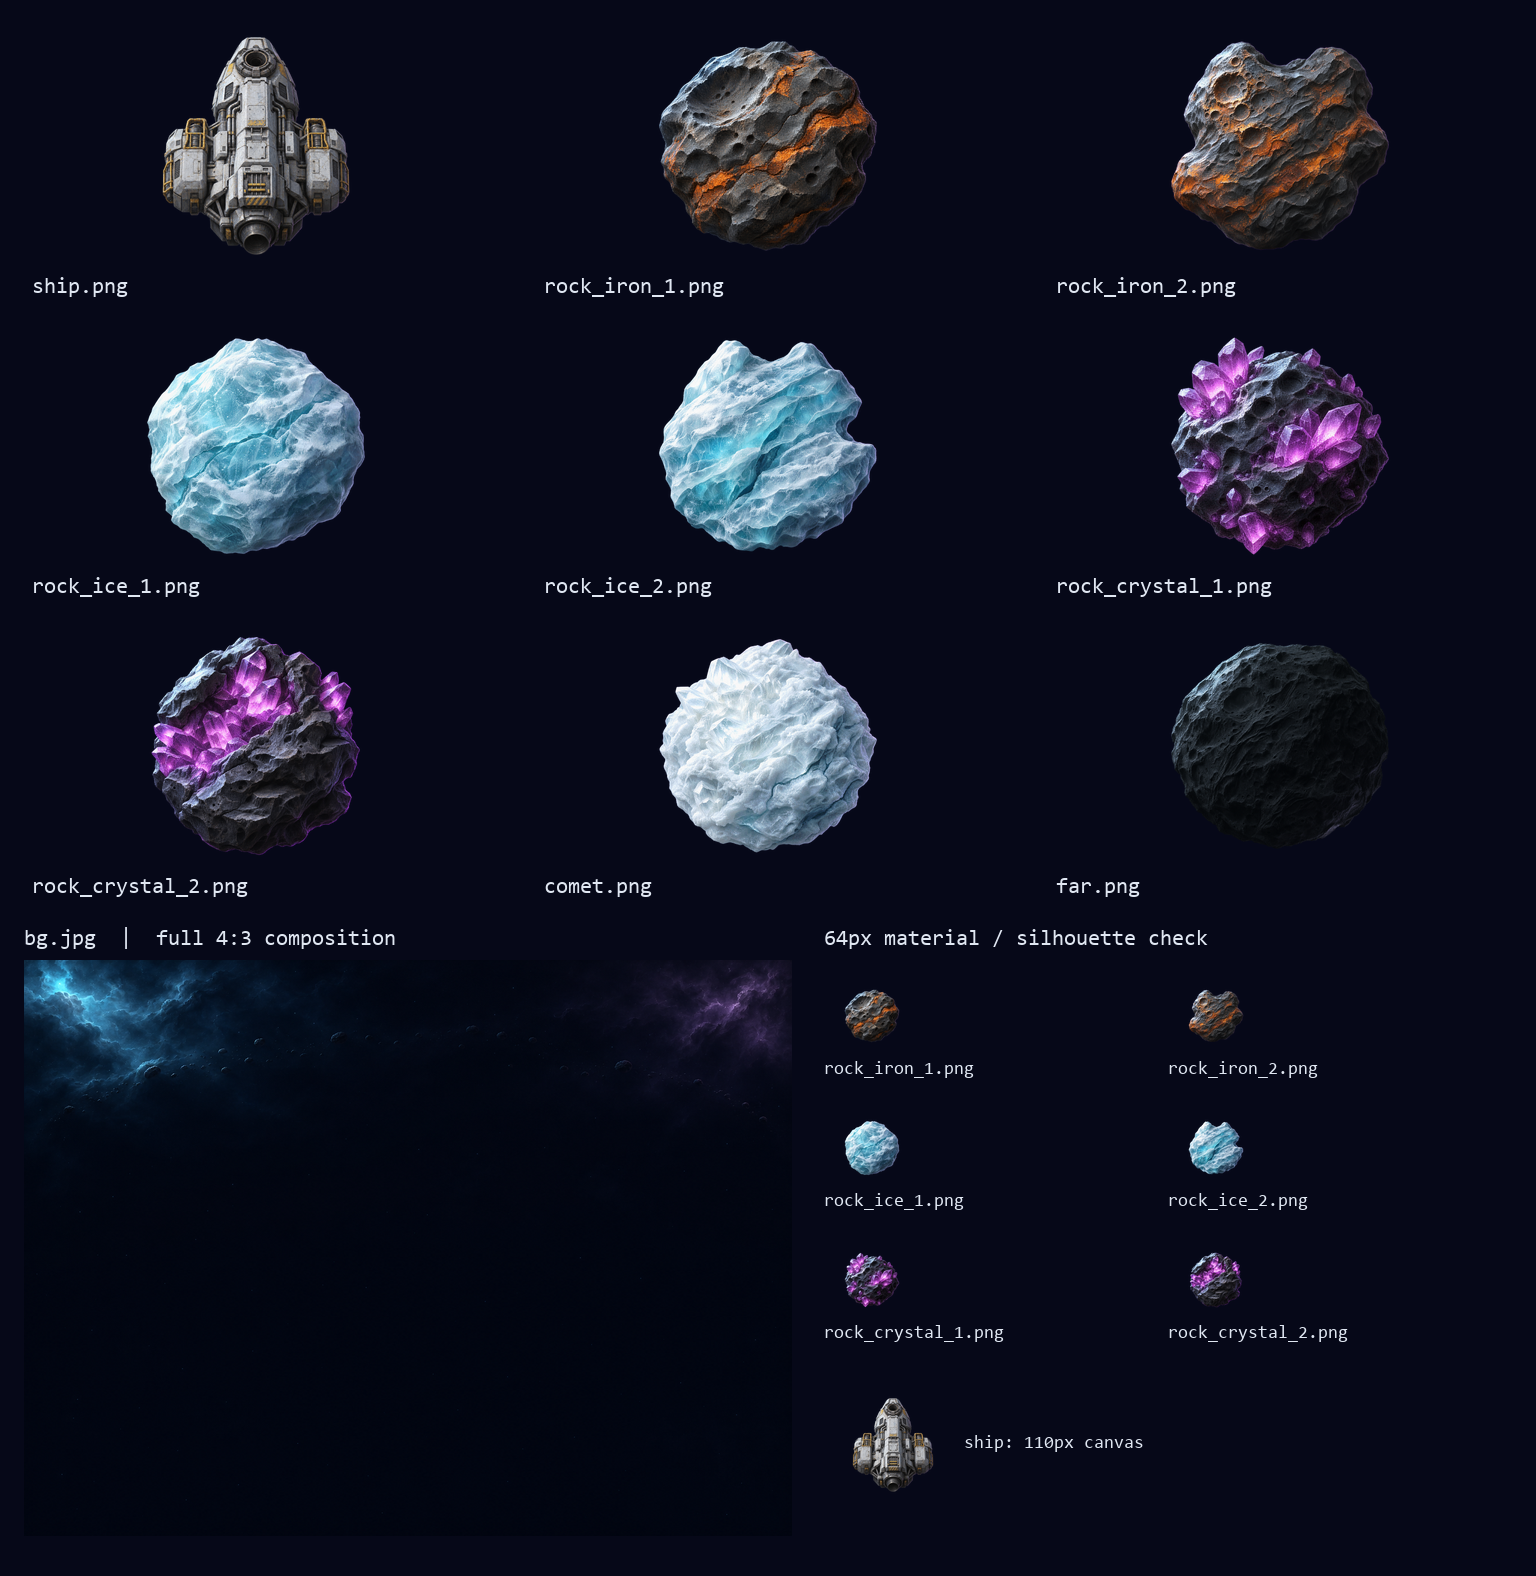
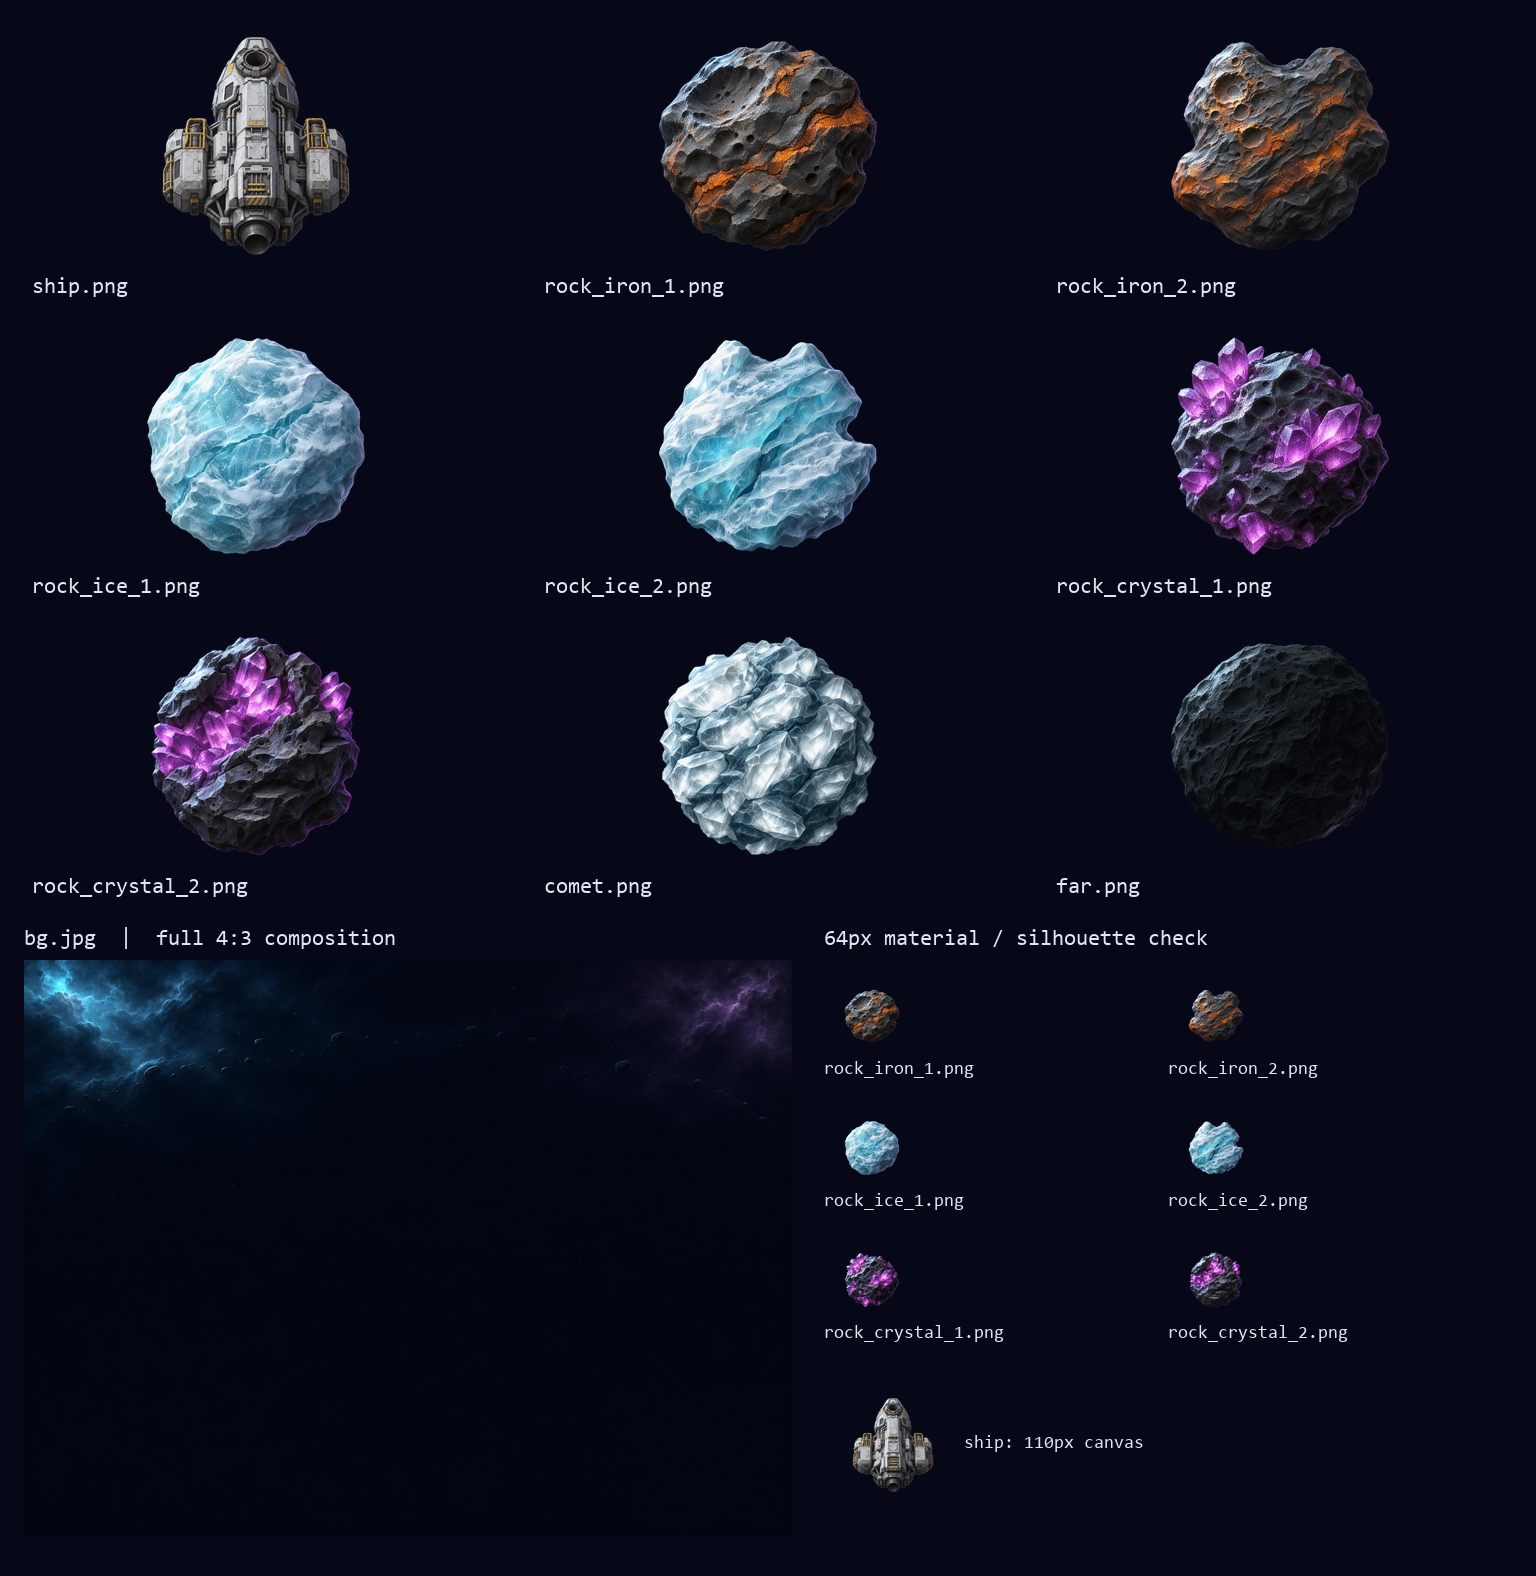
art: remake comet nucleus for round two review

Changed region(s): [[0.4062, 0.4042, 0.5938, 0.5596]]

diff --git a/docs/art/NOTES.md b/docs/art/NOTES.md
@@ -130,6 +130,24 @@ Create ONE final production game sprite rock_crystal_2.png, a distinctive SECOND
 
 ### comet.png
 
+#### round 2 追記（2026-11-18 / Asia/Tokyo）
+
+- 作り直し **1回**（追加再生成0回）。組み込み `image_gen.imagegen` で新規生成し、編集の連鎖なし。seed指定欄はなく、固定・再利用していない。合格済み9画像とREVIEW.mdは変更していない。
+- 原本（保持）: `C:\Users\manga\.codex\generated_images\01a1e9ff-9697-7991-a51d-532e7835dd4f\call_Egc9CIph3SXhPWSAlbK7LZFz.png`（1254×1254 RGBA）。
+- 生成時の原本表示では、暗い青灰色の地肌と溝、大きな透明〜乳白色の結晶が前面全体に分布し、白い内部の輝きが見える。これは原本の所見であり、最終画像の合格判定ではない。
+- Pillowでalpha値8以下の透過整理・透明余白のトリミング・縦横比保持のLANCZOS縮小・中央配置だけを実施。減色なし、RGBAロスレス。描き足し・図形描画・模様生成なし。最終512×512、375,976バイト、実alphaあり。対象の外接矩形 `(39,38,473,474)`、434×436px、縦横比0.9954、最長辺85.16%、四辺に透明余白あり。
+- preview.png は既存一覧のcomet枠 `(640,618)-(896,874)` だけを最終ファイルから暗背景 `#060818` に再合成。1536×1576を維持し、他の画像・ラベル・鉱石64px欄はそのまま。画素差分がcomet枠内だけであることを検査。
+- **後処理後の暗背景での目視確認は未完了。合格とは記載しない。** 保存済みcomet.pngを読み直し、`#060818` 上に合成した一時PNG `C:\Users\manga\AppData\Local\Temp\pedal-rhythm-round2-comet-final-dark.png` をview_imageで開いたが、前回と同じ `helper_sandbox_lock_failed / SetNamedSecurityInfoW ... failed: 5` で表示できなかった。既存一覧のview_imageとNode表示も同障害で失敗。
+- 気になる点: 最終ファイルの輪郭・合成縁、他9枚との絵柄、結晶の面積、左上光・右下影、64pxで通常氷や紫結晶との識別と輝きの芯は再目視が必要。左から通常氷・comet・紫結晶の64px比較も `C:\Users\manga\AppData\Local\Temp\pedal-rhythm-round2-comet-64-comparison.png` に用意したが表示未確認。数値検査は視覚上の合格の代用にしない。
+
+新しい生成プロンプト（全文）:
+
+```text
+Create ONE production game sprite: comet.png, a special COMET NUCLEUS for a realistic hand-painted hard-SF asteroid mining game. Brand new image, not an edit. Genuinely TRANSPARENT RGBA background, square image, one isolated centered complete object occupying approximately 85 percent of the square. Compact approximately spherical nucleus with irregular nearly circular outline, width/height between 0.9 and 1.1, certainly within 1.25. CRITICAL REDESIGN: absolutely NOT a white snowball or a uniformly frosted pale rock. The underlying body is DARK BLUE-GRAY glacial ice, with clearly visible broad dark blue-gray areas and deep dark fissures between crystals. From that dark body protrude MANY substantial transparent to milky-white ice crystals distributed across the ENTIRE visible surface, including front, center, left, right, top and bottom, not merely a few crystals on top. The visible large crystals collectively cover at least 60 percent of the object's visible surface, with roughly 12-18 clearly legible broad angular crystal forms at varied angles, some embedded and some protruding. Dense integrated crystal mass, not a bouquet or separate loose fragments. Crystal interiors have strong WHITE luminous cores with only a hint of pale cyan; bright internal light is painted INSIDE sharply defined translucent facets. High contrast between brilliant white crystalline cores, clear glassy edges and dark blue-gray ice substrate; this must instantly read as a luminous white crystal nucleus even at 64 pixels, distinct from ordinary frosty cyan ice rocks and from purple crystal ore. Rich realistic hard-SF concept-art DIGITAL PAINTING, finely painted fractures, subtle inclusions and convincing translucent ice, physically grounded, restrained color palette, no flat vector shapes, low-poly, outlines, anime, toy/plastic or cheap CGI. Strong cool blue-white directional illumination from UPPER LEFT. Clearly deeper shadows on lower-right body, while crystals retain contained internal white illumination. NO purple, violet, magenta, orange or rust anywhere. Only slate blue-gray, desaturated cold blue, very pale cyan and white. All glow must remain WITHIN the physical crystals, crisp physical silhouette, no outward glow. NO TAIL, comet streak, halo, rings, lens flare, starburst, particles, floating chips, mist, bloom, blurry light, background scene, ground, cast shadow or backdrop. Transparent empty margin on all four sides; every crystal tip completely inside the image. No text, logo, border, UI, signature or watermark. Deliver a single isolated transparent sprite only.
+```
+
+以下はround 1の旧プロンプト（履歴として保持）:
+
 ```text
 Create ONE final production game sprite comet.png. A single COMET NUCLEUS, complete isolated compact white ice-and-crystal mass, NO TAIL of any kind. Square genuinely TRANSPARENT real alpha background, no backdrop, cast shadow, halo, bloom, plume, mist, particles or orbiting fragments. Hard-SF concept-art digital PAINTING with rich realistic painted material and fine natural texture, not vector, low-poly, anime, toy or cheap CGI. Strong cool blue-white directional light from UPPER LEFT, shaded lower-right crevices and extremely thin faint violet rim confined to object. Compact broadly ROUND natural nucleus, uneven circular outline with width/height near 1:1 and always below 1.2. Dense pearly WHITE frozen ice crust and a cluster of short stout clear WHITE crystalline points fused into whole mass, frosted crystalline ridges and translucent glacial layers, only very pale cyan accents. White crystalline interiors gleam visibly more brightly and exceptionally than ordinary blue ice asteroids; a special luminous resource yet preserve sculpted material detail, no overexposure across whole form. Some dark slate blue fissures define volume lower right. No purple ore or orange. A complete centered object occupying about 85% maximum square extent with clear transparent margin all around, every point inside. No exhaust, tail, VFX, lettering, logo, border, frame, UI, watermark or signature.
 ```
